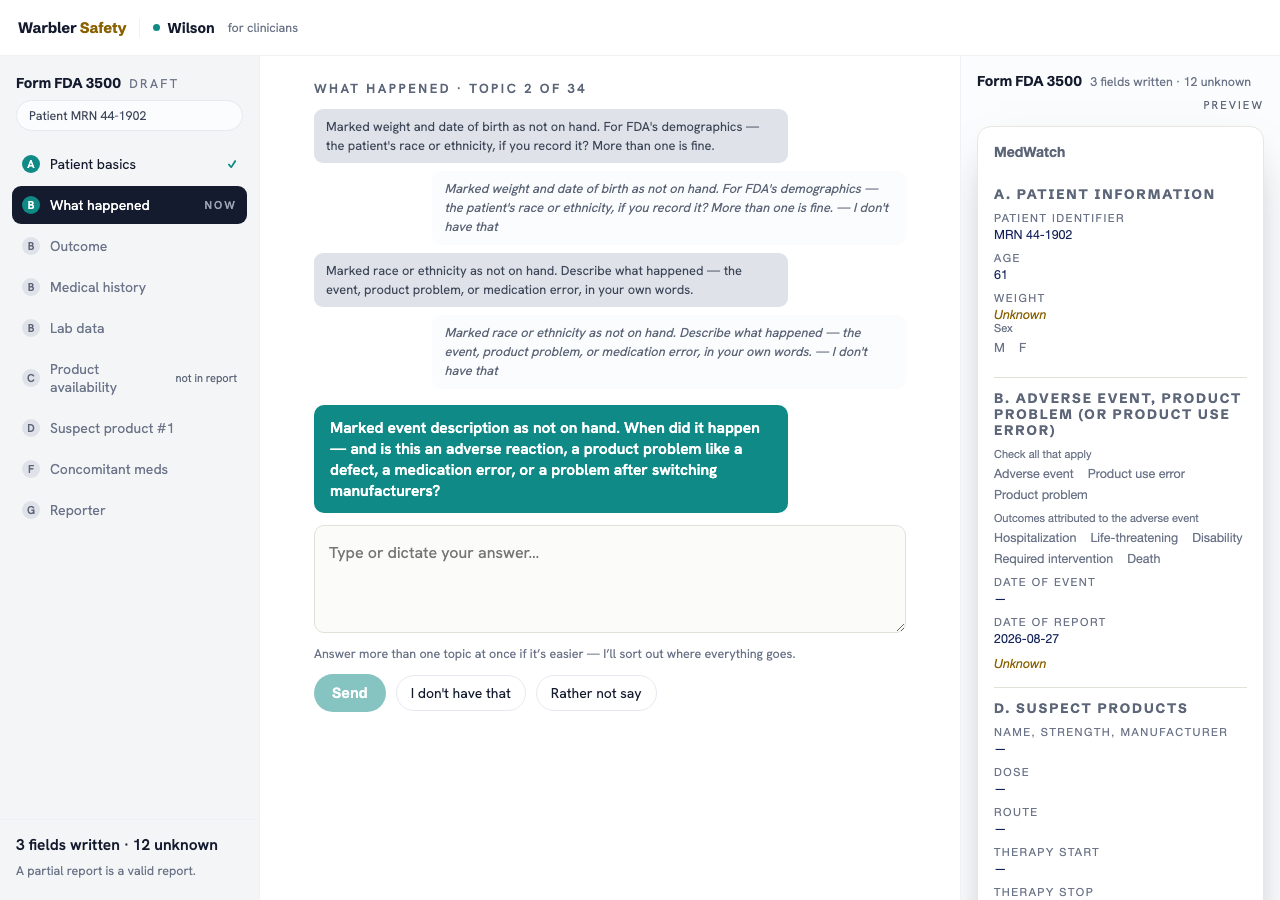
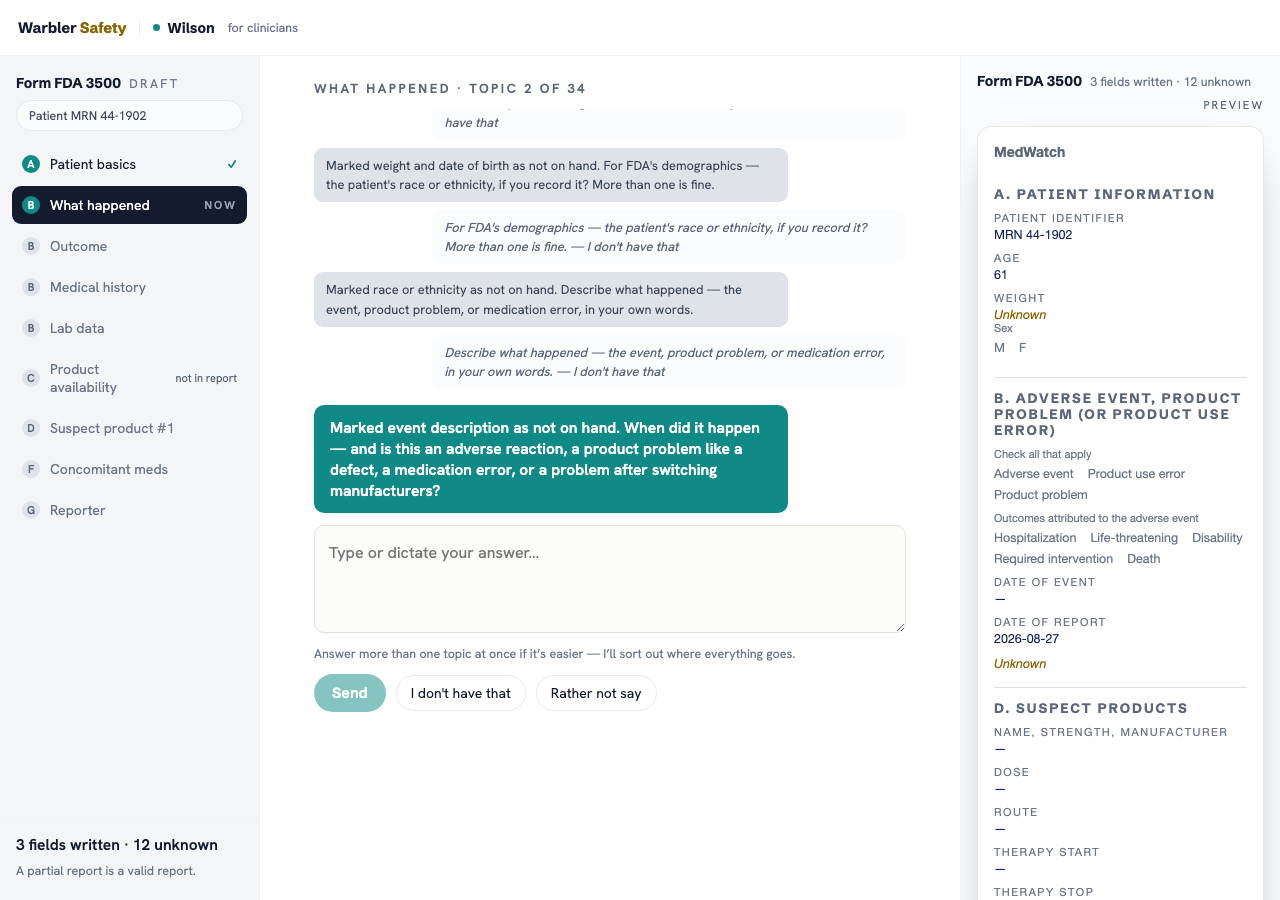
Fresh reviewer-pass fixes: the clinician's bubble, and three names
A fresh-context reviewer found what the in-session pass did not — the
first finding was visible in this branch's own committed run evidence.

**1. Chained dismiss taps put the talker's words in the clinician's
mouth.** `AskForm` quoted `current.reply` into its `role: "clinician"`
turn. Once #110 composed the acknowledgment INTO the reply, a second tap
recorded "Marked age and sex as not on hand. What's the patient's
weight…? — I don't have that" as something the CLINICIAN said — the
exact thing `widgetTurnText()`'s comment says must never happen, and it
reaches unit #92's exported conversation bundle, so it lands on the
record and not just the screen. Consecutive taps are an ordinary
session: a clinician without the patient's weight usually doesn't have
their race/ethnicity either.

`TalkStep` now carries `question` — the ask without whatever prefix
`reply` was composed with. `AskForm` and `RepeatDecision` quote that;
the transcript's talker turn still carries the full `reply`. Fixes the
pre-existing rare case too (a typed turn with a sweep prefix, then a
tap). The UX floor's scripted walk drives `question` for the same
reason: it is meant to model the surface, not diverge from it.

**2/3. Three fact names could not survive rule 8's frame.** "dose
reduced on", "test 1" and "other medication 1" are Review-row keys and
manifest rows, and read as such in prose — the defect class this unit
exists to prevent, in a new sentence. Each is now a one-field `AskFact`
[…]

Changed region(s): [[0.2188, 0.0933, 0.6875, 0.4356]]

diff --git a/src/app/wizard/direct-step.test.ts b/src/app/wizard/direct-step.test.ts
@@ -6,8 +6,8 @@
 // could never actually drive it.
 import { describe, expect, it } from "vitest";
 import { askDeterministic } from "@/lib/ask";
-import { applyActionToFields, dismissableFieldIds, widgetTurnText } from "@/lib/chip-grammar";
-import { initTalkSession, processTurn, startTalk, type ExtractFn } from "@/lib/talk";
+import { applyActionToFields, dismissAcknowledgment, dismissableFieldIds, widgetTurnText } from "@/lib/chip-grammar";
+import { initTalkSession, processTurn, startTalk, type ExtractFn, type TalkSession, type TalkStep } from "@/lib/talk";
 import { initRepeatCounts, setRepeatCount } from "@/lib/topics";
 import { stepForSession } from "./direct-step";
 
@@ -132,3 +132,61 @@ function dismissEverything() {
   for (const id of Object.keys(out)) out[id] = { state: "unknown" as const };
   return out;
 }
+
+// Reviewer pass on #109/#110. A chip tap's own transcript entry is
+// `role: "clinician"` and quotes the question it answers. Once a dismiss
+// acknowledgment was composed INTO `reply`, quoting `reply` folded a
+// talker statement into the clinician's own words — and consecutive
+// dismiss taps are an ordinary session, not a corner: a clinician without
+// the patient's weight usually doesn't have their race/ethnicity either.
+// It also reaches unit #92's exported conversation bundle, so it lands on
+// the record, not just the screen.
+//
+// Driven through AskForm.handleDismiss's exact composition rather than
+// through processTurn(): scriptedSteps() models the TYPED path, whose
+// in-ask mark_unknown writes produce no sweep prefix at all, so a check
+// there would pass without ever rendering an acknowledgment.
+describe("consecutive dismiss taps", () => {
+  async function tap(step: TalkStep): Promise<TalkStep> {
+    const fieldIds = dismissableFieldIds(step.nextStep);
+    const nextSession: TalkSession = {
+      ...step.session,
+      record: applyActionToFields(step.session.record, fieldIds, { type: "mark_unknown" }),
+      transcript: [
+        ...step.session.transcript,
+        { role: "clinician", text: widgetTurnText(step.question, "I don't have that"), source: "widget" },
+      ],
+    };
+    return stepForSession(nextSession, {
+      appendReply: true,
+      replyPrefix: dismissAcknowledgment(step.nextStep, "mark_unknown"),
+    });
+  }
+
+  it("never attribute a talker acknowledgment to the clinician", async () => {
+    let step = await startTalk(initTalkSession(), { ask: askDeterministic });
+    for (let i = 0; i < 4; i += 1) step = await tap(step);
+
+    const clinician = step.session.transcript.filter((turn) => turn.role === "clinician");
+    const talker = step.session.transcript.filter((turn) => turn.role === "talker");
+
+    // The acknowledgments exist...
+    expect(talker.filter((turn) => turn.text.startsWith("Marked "))).toHaveLength(4);
+    // ...and none of them is quoted as something the clinician said.
+    expect(clinician).toHaveLength(4);
+    expect(clinician.filter((turn) => turn.text.includes("Marked "))).toEqual([]);
+  });
+
+  it("the clinician turn quotes the bare question, acknowledgment stripped", async () => {
+    const opening = await startTalk(initTalkSession(), { ask: askDeterministic });
+    const second = await tap(opening);
+    const third = await tap(second);
+
+    // The turn the second tap recorded answers the second ask — whose
+    // visible reply led with the FIRST tap's acknowledgment.
+    expect(second.reply.startsWith("Marked ")).toBe(true);
+    expect(second.question.startsWith("Marked ")).toBe(false);
+    const recorded = third.session.transcript.filter((turn) => turn.role === "clinician").at(-1)!;
+    expect(recorded.text).toBe(`${second.question} — I don't have that`);
+  });
+});

diff --git a/src/lib/ask-inventory.ts b/src/lib/ask-inventory.ts
@@ -287,6 +287,19 @@ function eventTopics(): AuthoredAsk[] {
       // Openness attaches to LD-1's own resolution — row 1's test — so an
       // empty row 4 is never a phantom gap in open-fields or the counts.
       askFieldIds: ["Page3.TestDataTable.Row1.TestData1"],
+      // Named for rule 8's sentence: row 1 is where openness attaches, but
+      // "Marked test 1 as not on hand." tells a clinician who answered
+      // "any relevant tests or labs?" that wilson recorded something about
+      // a numbered row they never saw — and invites "so what about tests 2
+      // through 8?". LD-1 has one ask field, so it never reaches rule 9's
+      // frame and `name` is never rendered (reviewer pass, #109/#110).
+      facts: [
+        {
+          name: "test 1",
+          standaloneName: "relevant tests or labs",
+          fieldIds: ["Page3.TestDataTable.Row1.TestData1"],
+        },
+      ],
       companionFieldIds: LAB_WRITE_TARGET_FIELD_IDS,
     },
     {
@@ -369,6 +382,17 @@ function suspectProduct(instance: 1 | 2): AuthoredAsk[] {
       ],
       facts: [
         { name: "therapy status", fieldIds: [p("TherapyOngoingYes"), p("TherapyOngoingNo")], exclusive: true },
+        // A one-field fact purely for its name — the second reason AskFact
+        // exists ("one field whose display name doesn't read as a noun
+        // phrase inside rule 9's frames"). "dose reduced on" is a
+        // two-column Review key; `name` keeps it so rule 9 is unchanged,
+        // and `standaloneName` is what rule 8's sentence can actually say
+        // (reviewer pass, #109/#110).
+        {
+          name: "dose reduced on",
+          standaloneName: "the date the dose was reduced",
+          fieldIds: [p("TherapyReduceDate")],
+        },
       ],
       // Duration fills from stated words only — never computed from the
       // dates (ask-copy.md SP-4). Absent stated words it stays open,
@@ -562,6 +586,16 @@ function concomitantMedication(instance: number): AuthoredAsk[] {
           ? "Is the patient on other medications? Name them, with rough start and stop dates if you have them."
           : "What's the next medication — its name, and rough start and stop dates?",
       askFieldIds: [`${row}.Prod${instance}`],
+      // CM-1's ask is plural — "is the patient on other medications?" — so
+      // its dismissal says so. "Marked other medication 1 as not on hand."
+      // names a table row the ask never mentioned. Instance 1 only: the
+      // later instances' naming belongs to #111, which is amending their
+      // copy. One ask field, so rule 9's frame is unreachable and `name`
+      // never renders (reviewer pass, #109/#110).
+      facts:
+        instance === 1
+          ? [{ name: "other medication 1", standaloneName: "other medications", fieldIds: [`${row}.Prod${instance}`] }]
+          : undefined,
       companionFieldIds: [`${row}.Start${instance}`, end],
     },
   ];

diff --git a/src/lib/ux-floor.test.ts b/src/lib/ux-floor.test.ts
@@ -23,7 +23,8 @@ import {
   STATED_UNGATED_ASK_COUNT,
   templateMarkerViolations,
 } from "./ux-floor";
-import { AUTHORED_ASKS } from "./ask-inventory";
+import { AUTHORED_ASKS, unresolvedFactNames } from "./ask-inventory";
+import { initAgenda } from "./agenda";
 import {
   FIELD_ID_INVENTORY,
   MANIFEST_LABEL_INVENTORY,
@@ -85,6 +86,31 @@ describe("the rendered-copy inventory", () => {
       "Marked other reports and identity-withholding choice as not on hand.",
     );
     expect(bySource.get("sweep:dismiss/DV-1/decline")).toBe("Marked the rest of the device details as declined.");
+  });
+
+  // Reviewer pass on #109/#110: these three named a Review-row key or a
+  // manifest row inside a sentence. Pinned by their rendered form, and
+  // paired with the rule-9 names they must NOT have changed.
+  it("names facts whose display name is not prose through standaloneName", () => {
+    const text = (source: string) => INVENTORY.find((entry) => entry.source === source)?.text;
+    expect(text("sweep:dismiss/LD-1/mark_unknown")).toBe("Marked relevant tests or labs as not on hand.");
+    expect(text("sweep:dismiss/CM-1/mark_unknown")).toBe("Marked other medications as not on hand.");
+    expect(text("sweep:dismiss/SP-4/mark_unknown")).toBe(
+      "Marked therapy start date, therapy stop date, therapy status, and the date the dose was reduced as not on hand.",
+    );
+  });
+
+  it("leaves rule 9's own names untouched — standaloneName is additive", () => {
+    const record = initAgenda();
+    const byId = (id: string) => AUTHORED_ASKS.find((ask) => ask.id === id)!;
+    expect(unresolvedFactNames(byId("LD-1"), record)).toEqual(["test 1"]);
+    expect(unresolvedFactNames(byId("CM-1"), record)).toEqual(["other medication 1"]);
+    expect(unresolvedFactNames(byId("SP-4"), record)).toEqual([
+      "therapy start date",
+      "therapy stop date",
+      "therapy status",
+      "dose reduced on",
+    ]);
   });
 
   it("renders every field's display name", () => {

diff --git a/src/lib/talk.ts b/src/lib/talk.ts
@@ -153,6 +153,18 @@ export type AskFn = (step: NextStep, session: TalkSession) => Promise<string>;
 export interface TalkStep {
   session: TalkSession;
   reply: string;
+  // The ask alone, without whatever acknowledgment `reply` may have been
+  // composed with (the sweep's prefix, a dismiss tap's rule-8 line). The
+  // transcript's talker turn carries the full `reply` — but a chip tap's
+  // own "question — answer" turn must quote only the QUESTION: it is a
+  // `role: "clinician"` turn, and folding a talker's acknowledgment into
+  // it attributes a machine-composed statement to the clinician, which
+  // chip-grammar.ts's widgetTurnText() exists to prevent. Before this
+  // field, two dismiss taps in a row produced "Marked age and sex as not
+  // on hand. What's the patient's weight…? — I don't have that" as
+  // something the clinician said (reviewer pass, #109/#110). Equal to
+  // `reply` whenever there is no prefix, which is most turns.
+  question: string;
   nextStep: NextStep;
   // Issue #44: one-tap "replace it?" correction offers surfaced by THIS
   // turn's widened sweep. Deliberately NOT part of TalkSession — never
@@ -195,6 +207,7 @@ async function respond(
   return {
     session: { ...next, transcript: [...next.transcript, { role: "talker", text: reply }] },
     reply,
+    question,
     nextStep: step,
   };
 }

diff --git a/src/app/wizard/RepeatDecision.tsx b/src/app/wizard/RepeatDecision.tsx
@@ -23,6 +23,10 @@ interface RepeatDecisionProps {
   repeatGroup: RepeatGroup;
   afterInstance: number;
   reply: string;
+  // The decision's own question, without any acknowledgment `reply` was
+  // composed with — see TalkStep.question. `reply` is what the surface
+  // SHOWS; this is what a chip tap may quote into a clinician turn.
+  question: string;
   onChange: (next: TalkStep) => void;
   disabled?: boolean;
 }
@@ -32,6 +36,7 @@ export function RepeatDecision({
   repeatGroup,
   afterInstance,
   reply,
+  question,
   onChange,
   disabled = false,
 }: RepeatDecisionProps) {
@@ -47,7 +52,7 @@ export function RepeatDecision({
         repeatCounts: setRepeatCount(session.repeatCounts, repeatGroup, count),
         transcript: [
           ...session.transcript,
-          { role: "clinician", text: widgetTurnText(reply, answerLabel), source: "widget" },
+          { role: "clinician", text: widgetTurnText(question, answerLabel), source: "widget" },
         ],
       };
       setError(null);

diff --git a/src/app/wizard/direct-step.ts b/src/app/wizard/direct-step.ts
@@ -62,12 +62,14 @@ export async function stepForSession(
 ): Promise<TalkStep> {
   const step = nextStep(session.record, session.repeatCounts);
   const question = await askDeterministic(step, session);
-  // Composed before the `done` check has any say: the prefix is about a
+  // Composed for every step kind, `done` included: the prefix is about a
   // write that already happened, so the last dismiss of a session must
-  // not be the one nobody is told about.
+  // not be the one nobody is told about. `question` is returned alongside
+  // it — see TalkStep.question for why a chip tap needs the unprefixed
+  // form.
   const reply = options.replyPrefix ? `${options.replyPrefix} ${question}` : question;
   const resultSession: TalkSession = options.appendReply
     ? { ...session, transcript: [...session.transcript, { role: "talker", text: reply }] }
     : session;
-  return { session: resultSession, reply, nextStep: step };
+  return { session: resultSession, reply, question, nextStep: step };
 }

diff --git a/src/app/wizard/AskForm.tsx b/src/app/wizard/AskForm.tsx
@@ -92,7 +92,12 @@ export function AskForm({ current, onSubmitted, onPendingChange }: AskFormProps)
         record: applyActionToFields(current.session.record, fieldIds, { type: action }),
         transcript: [
           ...current.session.transcript,
-          { role: "clinician", text: widgetTurnText(current.reply, answerLabel), source: "widget" },
+          // current.question, never current.reply: a tap's own transcript
+          // turn is clinician-role, and current.reply may carry the
+          // PREVIOUS tap's "Marked … as not on hand." acknowledgment —
+          // which would then read as something the clinician said
+          // (reviewer pass, #109/#110).
+          { role: "clinician", text: widgetTurnText(current.question, answerLabel), source: "widget" },
         ],
       };
       onSubmitted(

diff --git a/src/lib/ux-floor.ts b/src/lib/ux-floor.ts
@@ -523,7 +523,10 @@ export async function scriptedSteps(): Promise<TalkStep[]> {
   for (let guard = 0; guard < 200; guard += 1) {
     steps.push(step);
     if (step.nextStep.kind === "done") return steps;
-    step = await processTurn(step.session, widgetTurnText(step.reply, "I don't have that"), {
+    // step.question, not step.reply — the same thing AskForm quotes into
+    // a tap's clinician turn. Driving the composed reply here would make
+    // the floor's walk diverge from the surface it is meant to model.
+    step = await processTurn(step.session, widgetTurnText(step.question, "I don't have that"), {
       ask: askDeterministic,
       extract: dismissWhatWasAsked,
     });

diff --git a/src/lib/chip-grammar.test.ts b/src/lib/chip-grammar.test.ts
@@ -232,7 +232,6 @@ describe("dismissAcknowledgment", () => {
     // RA-2 is the ask #110 names: five fields, two facts.
     const reporterAboutYou = TOPICS.find((t) => t.id === "reporter-about-you")!;
     const ra2 = reporterAboutYou.asks.find((a) => a.id === "RA-2")!;
-    const record = initAgenda();
     const step: NextStep = { kind: "topic", topic: reporterAboutYou, ask: ra2, fieldIds: ra2.askFieldIds };
     expect(dismissableFieldIds(step)).toHaveLength(5);
     expect(dismissAcknowledgment(step, "mark_unknown")).toBe(

diff --git a/src/app/wizard/Wizard.tsx b/src/app/wizard/Wizard.tsx
@@ -129,6 +129,7 @@ export function Wizard({ onDone }: WizardProps) {
             repeatGroup={step.repeatGroup}
             afterInstance={step.afterInstance}
             reply={current.reply}
+            question={current.question}
             onChange={handleStep}
             disabled={isSubmitting}
           />
